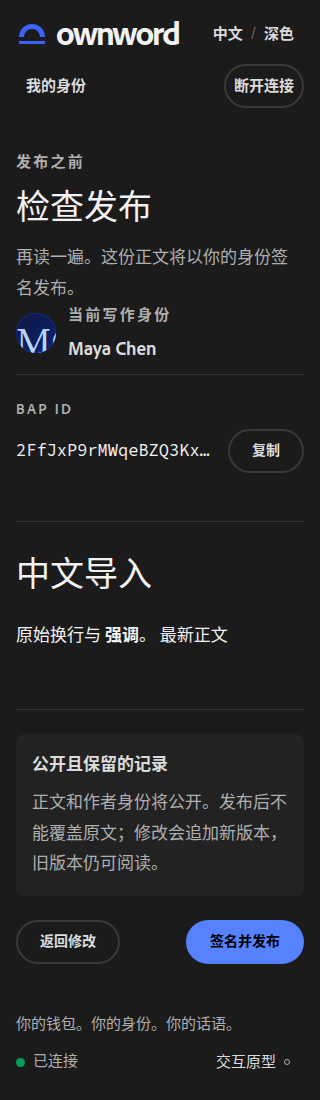
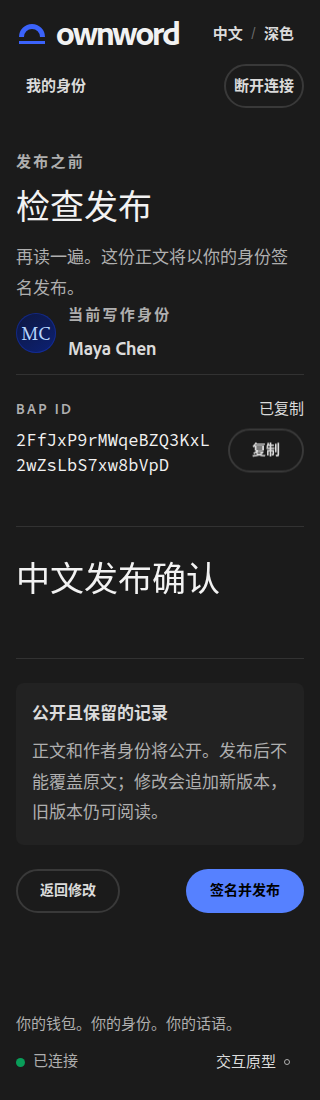
fix: 手机发布确认完整换行显示作者标识 (PRD v0.2.0_20260917-210556)

diff --git a/content.css b/content.css
@@ -144,3 +144,6 @@
 .publish-impact p { margin-top:var(--s2-spacing-100); color:var(--s2-gray-700); }
 .review-footer { display:flex; flex-wrap:wrap; justify-content:space-between; gap:var(--s2-spacing-200); margin-top:var(--s2-spacing-400); }
 @media(max-width:700px) { .editor-actions .draft-save-state { width:100%; } .editor-actions { justify-content:flex-start; } }
+.page-content .identifier-value { align-items:flex-start; }
+.page-content .identifier-value code { white-space:normal; overflow:visible; text-overflow:clip; overflow-wrap:anywhere; min-width:0; }
+.review-author .portrait span { font-size:var(--s2-font-size-200); }
